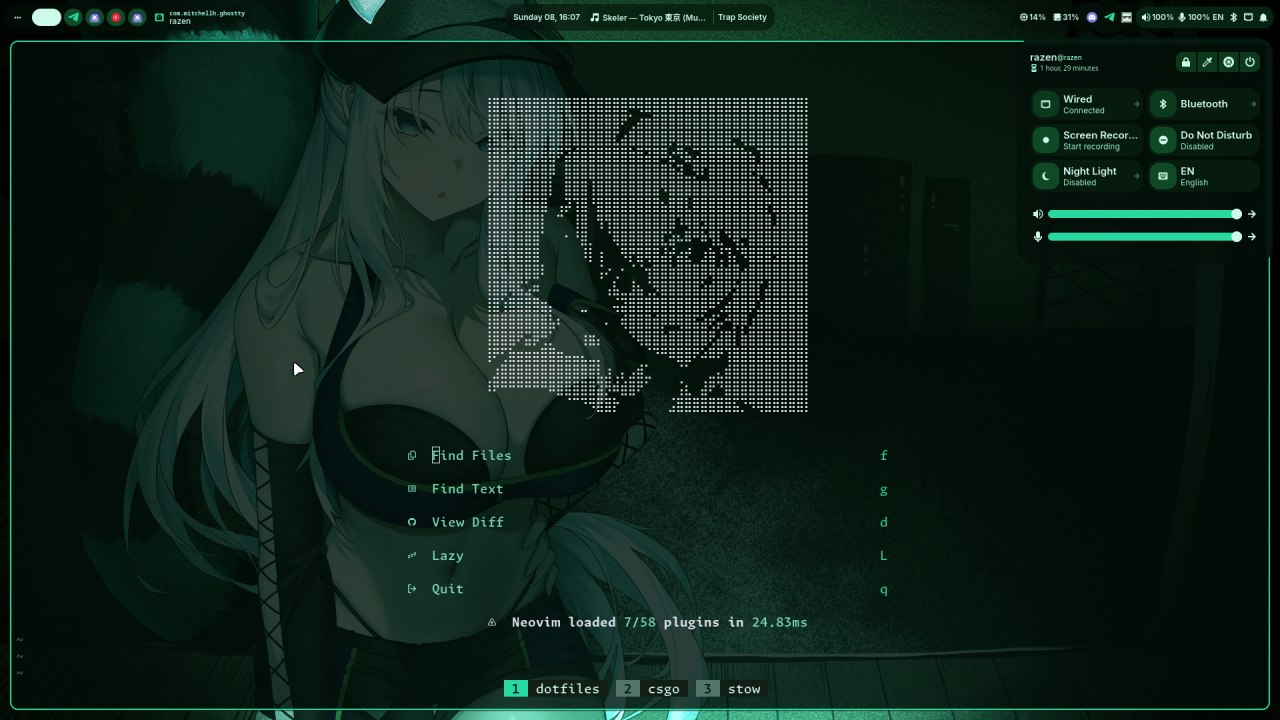
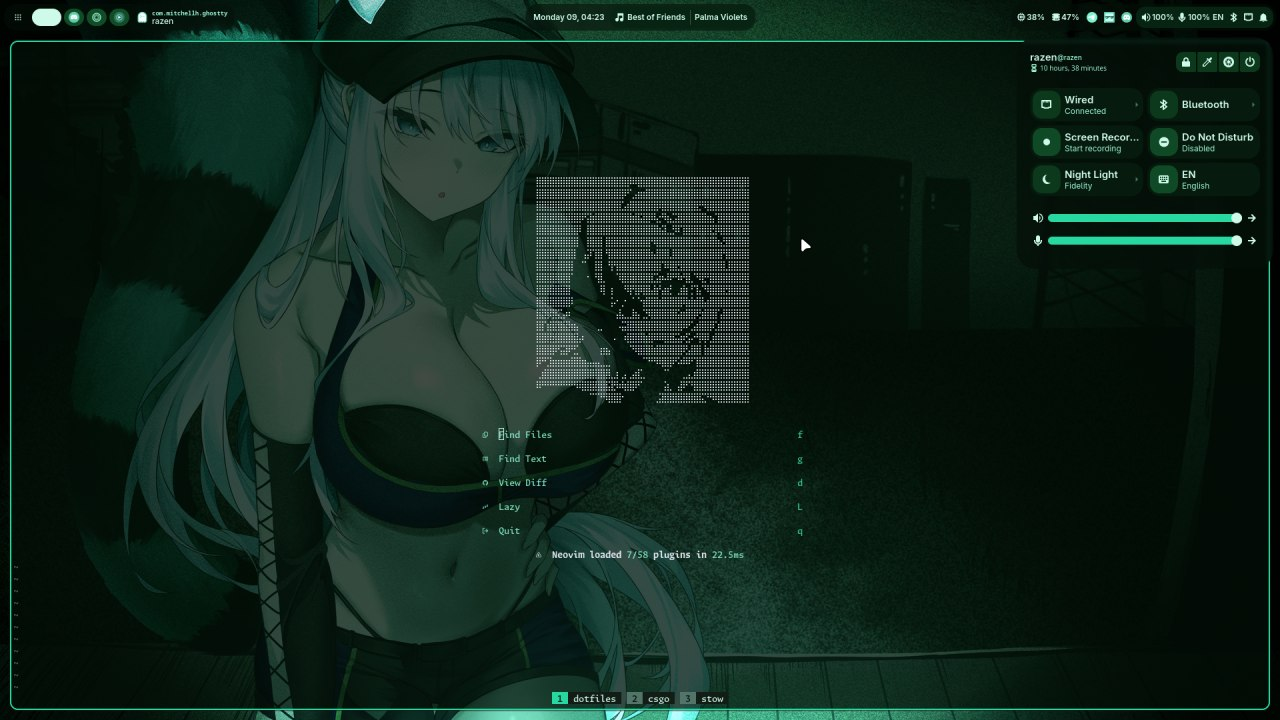
update screenshots

diff --git a/README.md b/README.md
@@ -4,9 +4,9 @@ Desktop environment for my main rig and laptop.
 
 ## Screenshots
 
-| Terminal                                | Neovim                                    | Desktop                                        |
-| --------------------------------------- | ----------------------------------------- | ---------------------------------------------- |
-| ![Terminal](./screenshots/terminal.jpg) | ![Neovim](./screenshots/nvim-startup.jpg) | ![Desktop](./screenshots/dolphin-chromium.jpg) |
+| Terminal                                | Neovim                                    | Desktop                               |
+| --------------------------------------- | ----------------------------------------- | ------------------------------------- |
+| ![Terminal](./screenshots/terminal.jpg) | ![Neovim](./screenshots/nvim-startup.jpg) | ![Desktop](./screenshots/desktop.jpg) |
 
 | Telegram                                | Discord                               | YT Music Desktop                             |
 | --------------------------------------- | ------------------------------------- | -------------------------------------------- |
